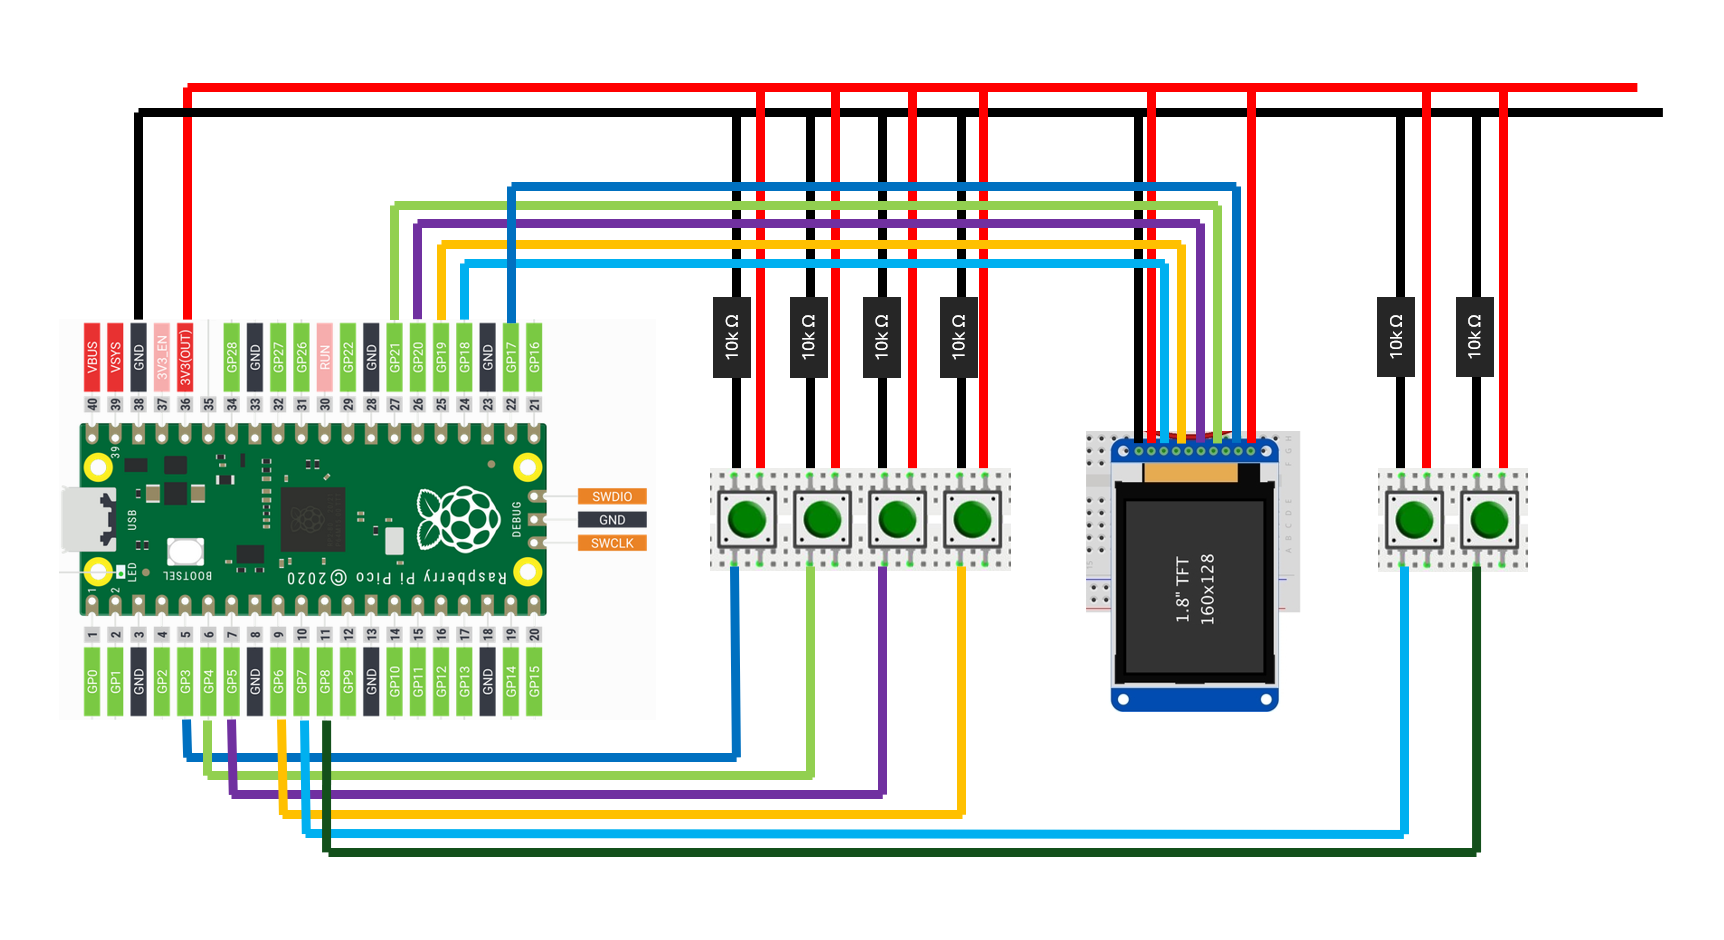
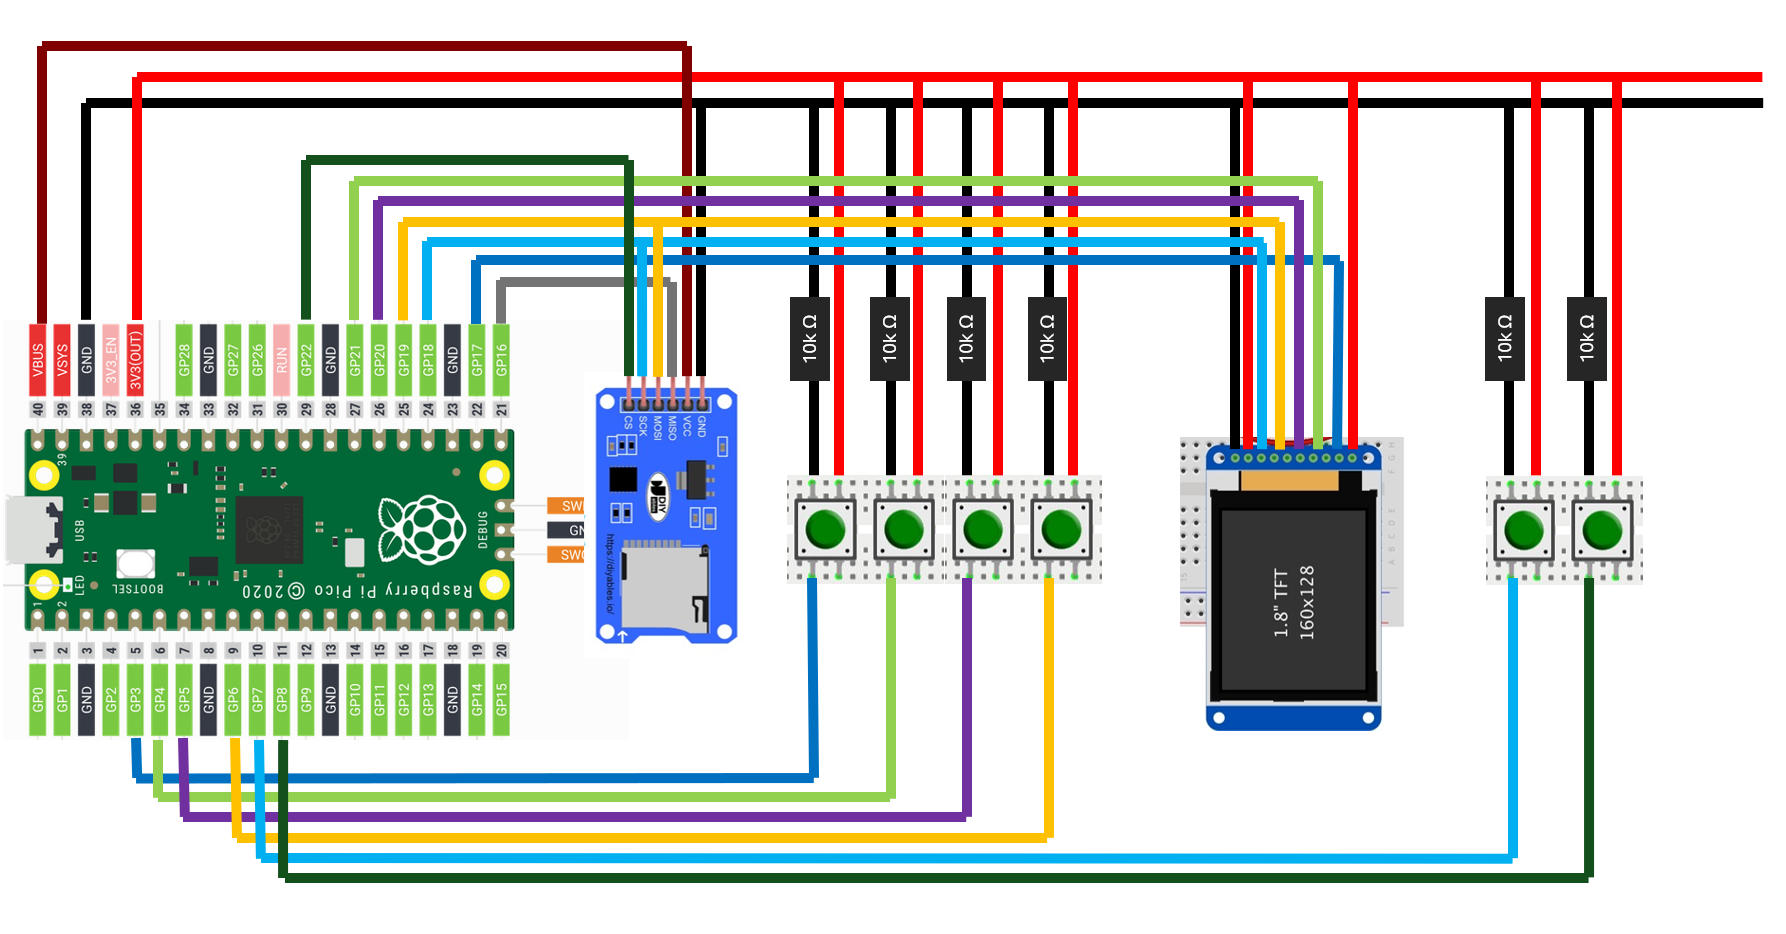
Updated README and wiring Scheme for SD card module

diff --git a/src/Systems/Core/TimerSystem.cpp b/src/Systems/Core/TimerSystem.cpp
@@ -14,7 +14,7 @@ void TimerSystem::Update(const std::vector<std::unique_ptr<Entity>> &entities, f
             timer->currentTime += deltaTime;
         }
 
-        //timeed events
+        //timed events
         //currenttime-= deltaTime
         //if currentime < 0
         //Eventsystem call event on countown

diff --git a/README.md b/README.md
@@ -3,20 +3,23 @@
 A lightweight game engine for the **Raspberry Pi Pico W**, built from scratch. This project demonstrates an Entity-Component-System (ECS) architecture with events, physics, and dynamic collision detection, along with sample games.
 
 
-
 ## Features
 
 Entity-Component-System (ECS): Modular design to separate data, behavior, and logic.
 Event system: Easily handle game events, collisions, and input.
 Physics & Collision Detection: Dynamic collisions, basic physics simulation.
-
+Sprite Rendering, Animations, Tileset Rendering from SD Card Module.
 
 
 ## Sample games included:
 
 Pong: Classic game to play against the computer.
 Jump & Run (WIP): Early prototype for a platformer demo.
+Exploration: Demo for Tileset, Sprites and Animation Rendering.
 
+
+## Libraries used:
+- no-OS-FatFS-SD-SDIO-SPI-RPi-Pico
 
 
 ## Quick build
@@ -31,6 +34,7 @@ or this inside the empty build folder
 cmake -G "Ninja" .. && ninja
 ```
 
+
 ## Hardware I used
 - Raspberry Pi Pico W
 - ST7735 LCD Display
@@ -39,6 +43,11 @@ cmake -G "Ninja" .. && ninja
     - MOSI: pin 19
     - RST: pin 20
     - DC: pin 21
+- SD Card Module
+    - CS: pin 22
+    - SCK: pin 18
+    - MOSI: pin 19
+    - MISO: pin 16
 - 6x6x5 mm Miniature Push Button
     - UP: pin 3
     - DOWN: pin 4
@@ -46,6 +55,7 @@ cmake -G "Ninja" .. && ninja
     - RIGHT pin 6
     - A: pin 7
     - B: pin 8
+
 
 ## Wiring scheme
 ![scheme](wiringScheme.png)
